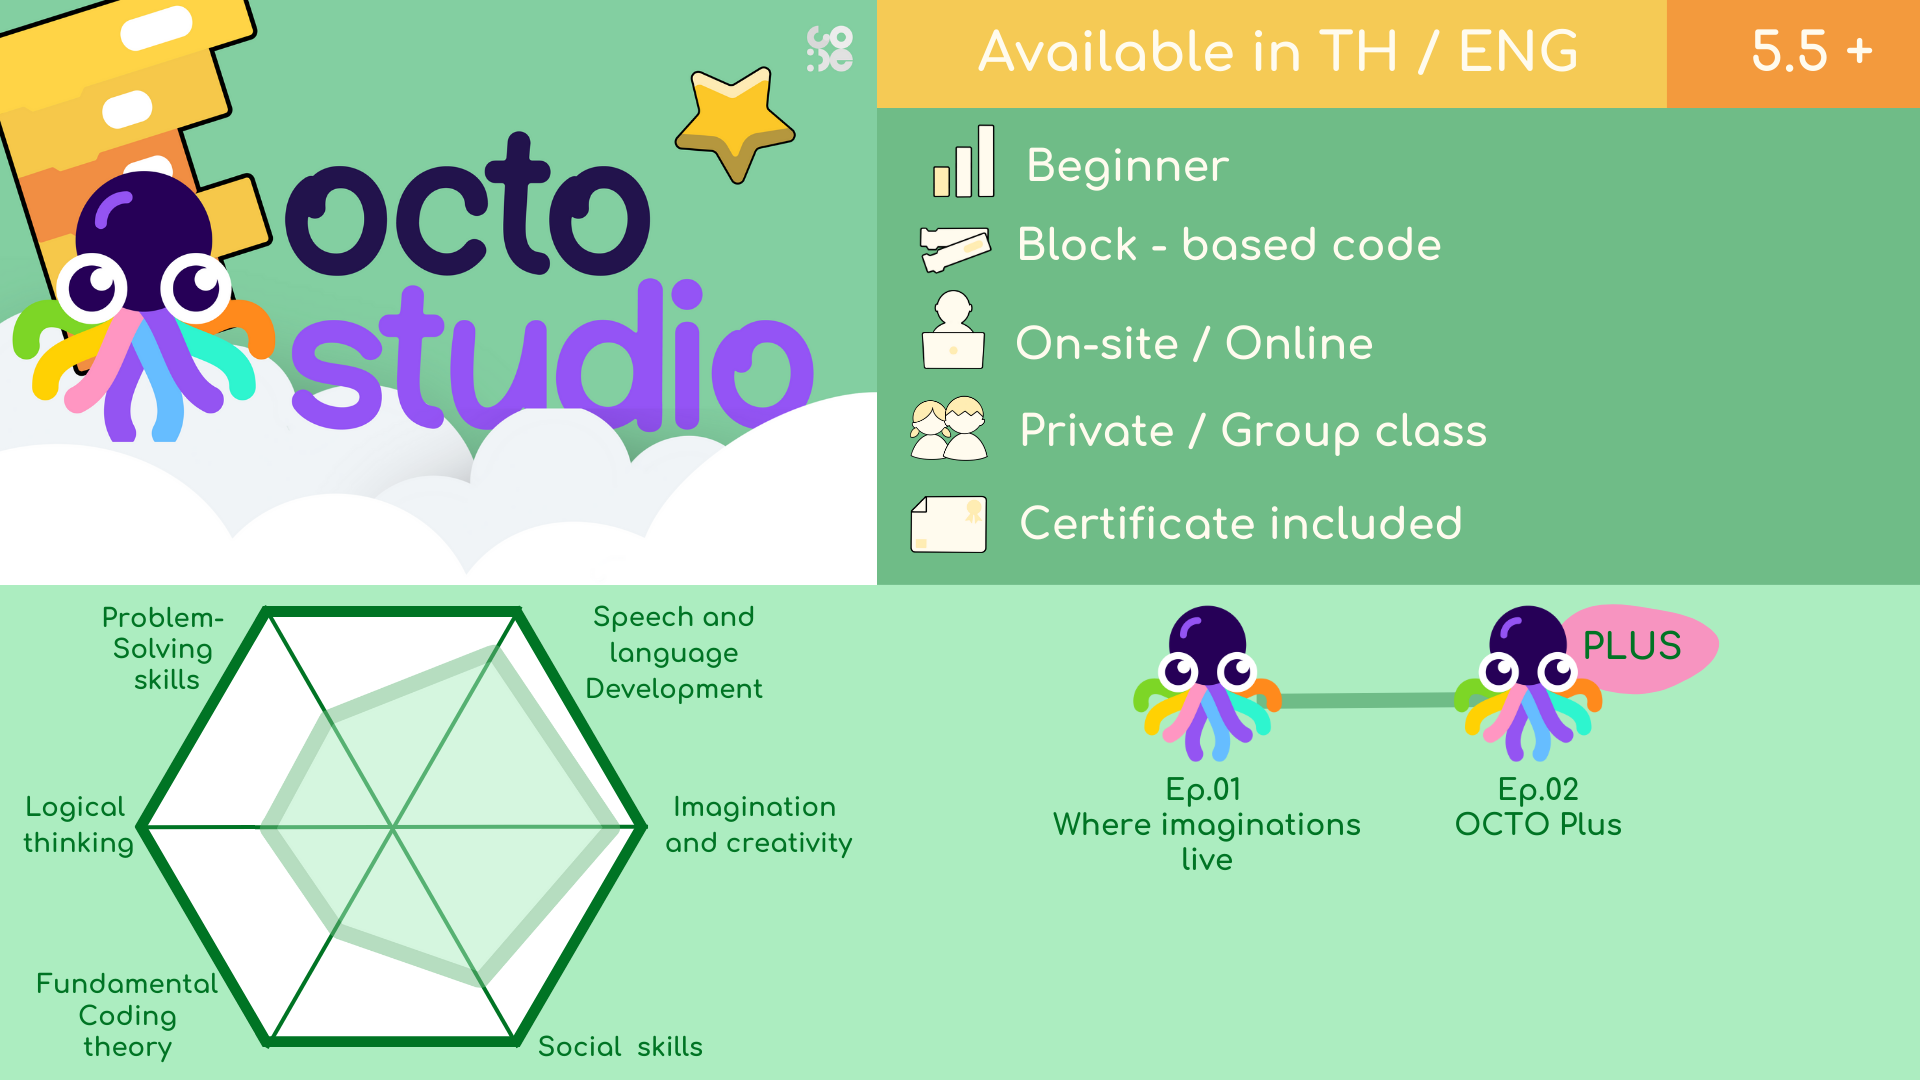
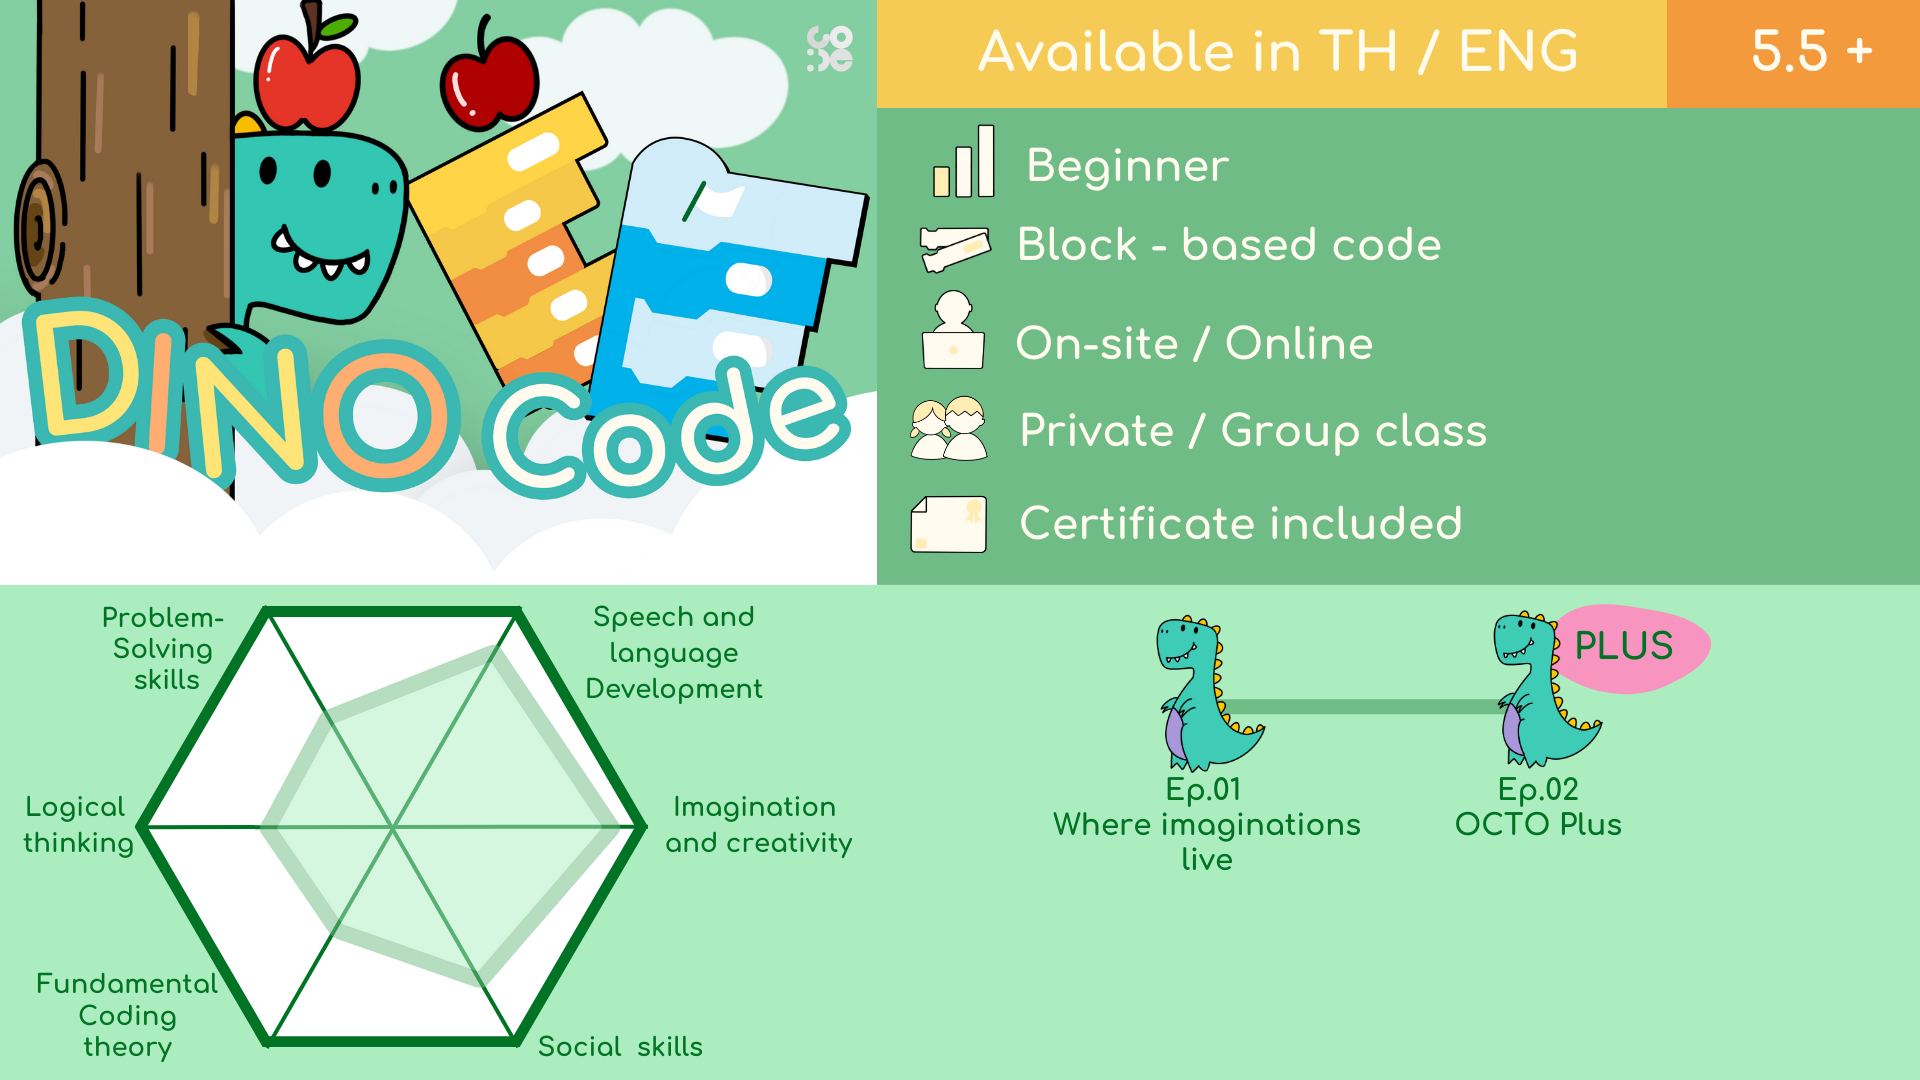
Added 2 Mockup Courses

Changed region(s): [[0.0, 0.0, 0.4688, 0.4583], [0.5938, 0.55, 0.9062, 0.7333]]

diff --git a/src/components/courses/IndividualCoursePages/Design/DesignCourse.jsx b/src/components/courses/IndividualCoursePages/Design/DesignCourse.jsx
@@ -1,9 +1,9 @@
 /* eslint-disable react/no-unescaped-entities */
 import kid from "../../../../assets/CourseLogos/Scratch/kid.jpeg";
-import scratchStat from "../../../../assets/CourseLogos/Scratch/scratchStat.png";
-import check from "../../../../assets/CourseLogos/Scratch/check.png";
-import episodes from "../../../../assets/CourseLogos/Scratch/episodes.png";
-import blockcoder from "../../../../assets/CourseLogos/Scratch/blockcoder.png";
+import designStat from "../../../../assets/CourseLogos/Design/designStat.png";
+import check from "../../../../assets/CourseLogos/Design/check.png";
+import episodes from "../../../../assets/CourseLogos/Design/episodes.png";
+import designThinking from "../../../../assets/CourseLogos/Design/designThinking.png";
 import age from "../../../../assets/searchfilter/age.png";
 import graph from "../../../../assets/searchfilter/graph.png";
 import laptop from "../../../../assets/searchfilter/laptop.png";
@@ -14,21 +14,21 @@ import img2 from "../../../../assets/CourseLogos/Scratch/images/img2.jpg";
 import img3 from "../../../../assets/CourseLogos/Scratch/images/img3.jpg";
 
 import { Carousel } from "@material-tailwind/react";
-const ScratchCourse = () => {
+const DesignCourse = () => {
   const listStyle = {
     listStyleImage: `url(${check})`,
   };
   const slideShowData = [img1, img2, img3];
 
   return (
-    <div className="flex h-full w-full flex-col items-center bg-[#65b57d] pt-[80px] font-comfortaa text-white md:pt-[110px]">
+    <div className="flex h-full w-full flex-col items-center bg-[#F9E5AC] pt-[80px] font-comfortaa text-white md:pt-[110px]">
       <section className="flex w-full flex-col md:flex-row">
-        <div className="flex w-full flex-col items-center bg-[#6FBC87]   md:w-[70%]">
-          <img src={blockcoder} alt="blockcoder" className=" w-full" />
+        <div className="flex w-full flex-col items-center bg-[#F6C94B]   md:w-[70%]">
+          <img src={designThinking} alt="blockcoder" className=" w-full" />
 
           <p className="my-12 w-[90%] text-center text-xl  lg:text-2xl xl:text-3xl">
-            "A perfect starting point for young minds to explore the exciting
-            world of coding"
+            "Spark creativity and logical thinking in your little ones, aligning
+            with their developmental milestones"
           </p>
 
           {/* Scratch + Kid Pic*/}
@@ -40,13 +40,13 @@ const ScratchCourse = () => {
         />
       </section>
 
-      <section className="flex w-full flex-col bg-[#ACEDBF] md:flex-row">
+      <section className="flex w-full flex-col bg-[#FEE397] md:flex-row">
         <img
-          src={scratchStat}
+          src={designStat}
           alt="Course"
           className="w-full object-contain md:w-[55%]"
         />
-        <div className="flex w-full  flex-col items-center justify-center bg-[#ACEDBF] p-5 text-black  md:w-[45%]  md:p-10 ">
+        <div className="flex w-full  flex-col items-center justify-center  p-5 text-black  md:w-[45%]  md:p-10 ">
           <div>
             <p className="mb-2 text-sm font-bold sm:text-base lg:text-lg xl:text-xl">
               Skills Developed
@@ -81,7 +81,7 @@ const ScratchCourse = () => {
         </div>
       </section>
 
-      <section className="flex items-center justify-center bg-[#65b57d] p-10">
+      <section className="flex items-center justify-center bg-[#F7A2A0] p-10">
         <div className=" flex w-full flex-wrap text-sm sm:text-base  lg:text-lg xl:text-3xl ">
           <div className="mb-3 flex w-[50%] items-center font-bold ">
             <img src={graph} alt="laptop" className="mr-3 w-[15%]" />
@@ -106,7 +106,7 @@ const ScratchCourse = () => {
         </div>
       </section>
 
-      <section className="flex w-full items-center justify-center bg-green-300 p-10 text-black">
+      <section className="flex w-full items-center justify-center bg-[#F9E5AC] p-10 text-black">
         <div>
           <p className="mb-5 text-2xl font-bold lg:text-3xl">
             Learning Process
@@ -197,10 +197,10 @@ const ScratchCourse = () => {
         </div>
       </section>
 
-      <section className="relative flex w-full  items-center justify-center bg-[#ACEDBF] p-12 md:p-0">
+      <section className="relative flex w-full  items-center justify-center bg-[#FEE397]  p-12 md:p-0">
         <img src={episodes} alt="episodes" className=" md:w-[80%] lg:w-[70%]" />
-        <div className="absolute right-0 top-0 bg-[#4CBD80] px-5 py-2">
-          <p className="text-center">Our Course Path</p>
+        <div className="absolute right-0 top-0 bg-[#F7A2A0] px-5 py-2">
+          <p className="text-center">Our Adventure</p>
         </div>
       </section>
 
@@ -238,4 +238,4 @@ const ScratchCourse = () => {
   );
 };
 
-export default ScratchCourse;
+export default DesignCourse;

diff --git a/src/components/courses/IndividualCoursePages/Octo/OctoCourse.jsx b/src/components/courses/IndividualCoursePages/Octo/OctoCourse.jsx
@@ -1,9 +1,9 @@
 /* eslint-disable react/no-unescaped-entities */
 import kid from "../../../../assets/CourseLogos/Scratch/kid.jpeg";
-import scratchStat from "../../../../assets/CourseLogos/Scratch/scratchStat.png";
-import check from "../../../../assets/CourseLogos/Scratch/check.png";
-import episodes from "../../../../assets/CourseLogos/Scratch/episodes.png";
-import blockcoder from "../../../../assets/CourseLogos/Scratch/blockcoder.png";
+import octoStat from "../../../../assets/CourseLogos/Octo/octoStat.png";
+import check from "../../../../assets/CourseLogos/Octo/check.png";
+import episodes from "../../../../assets/CourseLogos/Octo/episodes.png";
+import dinocode from "../../../../assets/CourseLogos/Octo/dinocode.png";
 import age from "../../../../assets/searchfilter/age.png";
 import graph from "../../../../assets/searchfilter/graph.png";
 import laptop from "../../../../assets/searchfilter/laptop.png";
@@ -14,7 +14,7 @@ import img2 from "../../../../assets/CourseLogos/Scratch/images/img2.jpg";
 import img3 from "../../../../assets/CourseLogos/Scratch/images/img3.jpg";
 
 import { Carousel } from "@material-tailwind/react";
-const ScratchCourse = () => {
+const OctoCourse = () => {
   const listStyle = {
     listStyleImage: `url(${check})`,
   };
@@ -24,11 +24,10 @@ const ScratchCourse = () => {
     <div className="flex h-full w-full flex-col items-center bg-[#65b57d] pt-[80px] font-comfortaa text-white md:pt-[110px]">
       <section className="flex w-full flex-col md:flex-row">
         <div className="flex w-full flex-col items-center bg-[#6FBC87]   md:w-[70%]">
-          <img src={blockcoder} alt="blockcoder" className=" w-full" />
+          <img src={dinocode} alt="blockcoder" className=" w-full" />
 
           <p className="my-12 w-[90%] text-center text-xl  lg:text-2xl xl:text-3xl">
-            "A perfect starting point for young minds to explore the exciting
-            world of coding"
+            "Ignite your passion for coding in a fun and interactive way."
           </p>
 
           {/* Scratch + Kid Pic*/}
@@ -42,7 +41,7 @@ const ScratchCourse = () => {
 
       <section className="flex w-full flex-col bg-[#ACEDBF] md:flex-row">
         <img
-          src={scratchStat}
+          src={octoStat}
           alt="Course"
           className="w-full object-contain md:w-[55%]"
         />
@@ -238,4 +237,4 @@ const ScratchCourse = () => {
   );
 };
 
-export default ScratchCourse;
+export default OctoCourse;

diff --git a/src/components/homepage/components/customCourse/components/CoursesImports.jsx b/src/components/homepage/components/customCourse/components/CoursesImports.jsx
@@ -23,7 +23,7 @@ export const Scratch = () => {
   return (
     <div className="mb-20 flex w-full flex-col items-center">
       <p className="mb-6  w-[80%] text-center text-2xl  md:text-3xl xl:text-4xl">
-        Scratch : The Journey of Superpower
+        Block Coder : The Journey of Superpower
       </p>
       <div className="relative my-2 w-[90%] rounded-xl sm:w-[85%]">
         <img src={scratch} alt="pic" className=" rounded-xl" />
@@ -39,7 +39,7 @@ export const Octo = () => {
   return (
     <div className="mb-20 flex w-full flex-col items-center">
       <p className="mb-6  w-[80%] text-center text-2xl  md:text-3xl xl:text-4xl">
-        Octo Studio : Make Seafood using Octopus
+        Dino Code : Adventures of Gong
       </p>
       <div className="relative my-2 w-[90%] rounded-xl sm:w-[85%]">
         <img src={octoStudio} alt="pic" className=" rounded-xl" />

diff --git a/src/main.jsx b/src/main.jsx
@@ -17,6 +17,8 @@ import NonCode from "./components/courses/pages/NonCode.jsx";
 import University from "./components/courses/pages/University.jsx";
 import Custom from "./components/homepage/components/customCourse/Custom.jsx";
 import ScratchPage from "./components/courses/IndividualCoursePages/Scratch/ScratchPage.jsx";
+import OctoPage from "./components/courses/IndividualCoursePages/Octo/OctoPage.jsx";
+import DesignPage from "./components/courses/IndividualCoursePages/Design/DesignPage.jsx";
 
 const router = createHashRouter([
   {
@@ -74,6 +76,14 @@ const router = createHashRouter([
   {
     path: "/courses/blockcode/scratch",
     element: <ScratchPage />,
+  },
+  {
+    path: "/courses/blockcode/octo",
+    element: <OctoPage />,
+  },
+  {
+    path: "/courses/noncode/designthinking",
+    element: <DesignPage />,
   },
 ]);
 

diff --git a/src/components/courses/IndividualCoursePages/Design/DesignPage.jsx b/src/components/courses/IndividualCoursePages/Design/DesignPage.jsx
@@ -1,0 +1,29 @@
+import { useState, useEffect } from "react";
+import Header from "../../../header/Header";
+import Nav from "../../../header/Nav";
+import Footer from "../../../homepage/components/Footer";
+import Message from "../../../msg/Message";
+import Email from "../../../homepage/components/Email";
+import DesignCourse from "./DesignCourse";
+
+const DesignPage = () => {
+  const [isNavOpen, setIsNavOpen] = useState(false);
+  useEffect(() => {
+    window.scrollTo(0, 0);
+  }, []);
+  const toggleNav = () => {
+    setIsNavOpen(!isNavOpen);
+  };
+  return (
+    <>
+      <Header toggle={toggleNav} />
+      <Nav isVisible={isNavOpen} />
+      <DesignCourse />
+      <Email />
+      <Footer />
+      <Message />
+    </>
+  );
+};
+
+export default DesignPage;

diff --git a/src/components/courses/IndividualCoursePages/Octo/OctoPage.jsx b/src/components/courses/IndividualCoursePages/Octo/OctoPage.jsx
@@ -1,0 +1,29 @@
+import { useState, useEffect } from "react";
+import Header from "../../../header/Header";
+import Nav from "../../../header/Nav";
+import Footer from "../../../homepage/components/Footer";
+import Message from "../../../msg/Message";
+import Email from "../../../homepage/components/Email";
+import OctoCourse from "./OctoCourse";
+
+const OctoPage = () => {
+  const [isNavOpen, setIsNavOpen] = useState(false);
+  useEffect(() => {
+    window.scrollTo(0, 0);
+  }, []);
+  const toggleNav = () => {
+    setIsNavOpen(!isNavOpen);
+  };
+  return (
+    <>
+      <Header toggle={toggleNav} />
+      <Nav isVisible={isNavOpen} />
+      <OctoCourse />
+      <Email />
+      <Footer />
+      <Message />
+    </>
+  );
+};
+
+export default OctoPage;

diff --git a/src/components/courses/pages/BlockCode.jsx b/src/components/courses/pages/BlockCode.jsx
@@ -16,10 +16,14 @@ import scratch from "../../../assets/courseDetails/scratch.png";
 
 const BlockCode = () => {
   const coursesData = [
-    { pic: octo, title: "Octo Studio : Make Seafood using Octopus" },
+    {
+      pic: octo,
+      title: "Dino Code : Adventures of Gong",
+      portal: "/courses/blockcode/octo",
+    },
     {
       pic: scratch,
-      title: "Scratch : The Journey of Superpower",
+      title: "Block Coder : The Journey of Superpower",
       portal: "/courses/blockcode/scratch",
     },
   ];

diff --git a/src/components/courses/pages/NonCode.jsx b/src/components/courses/pages/NonCode.jsx
@@ -19,6 +19,7 @@ const NonCode = () => {
     {
       pic: designThinking,
       title: "Design Thinking : BunBun's Journey",
+      portal: "/courses/noncode/designthinking",
     },
   ];
   const slideShowData = [img1, img2, img3, img4, img5];
